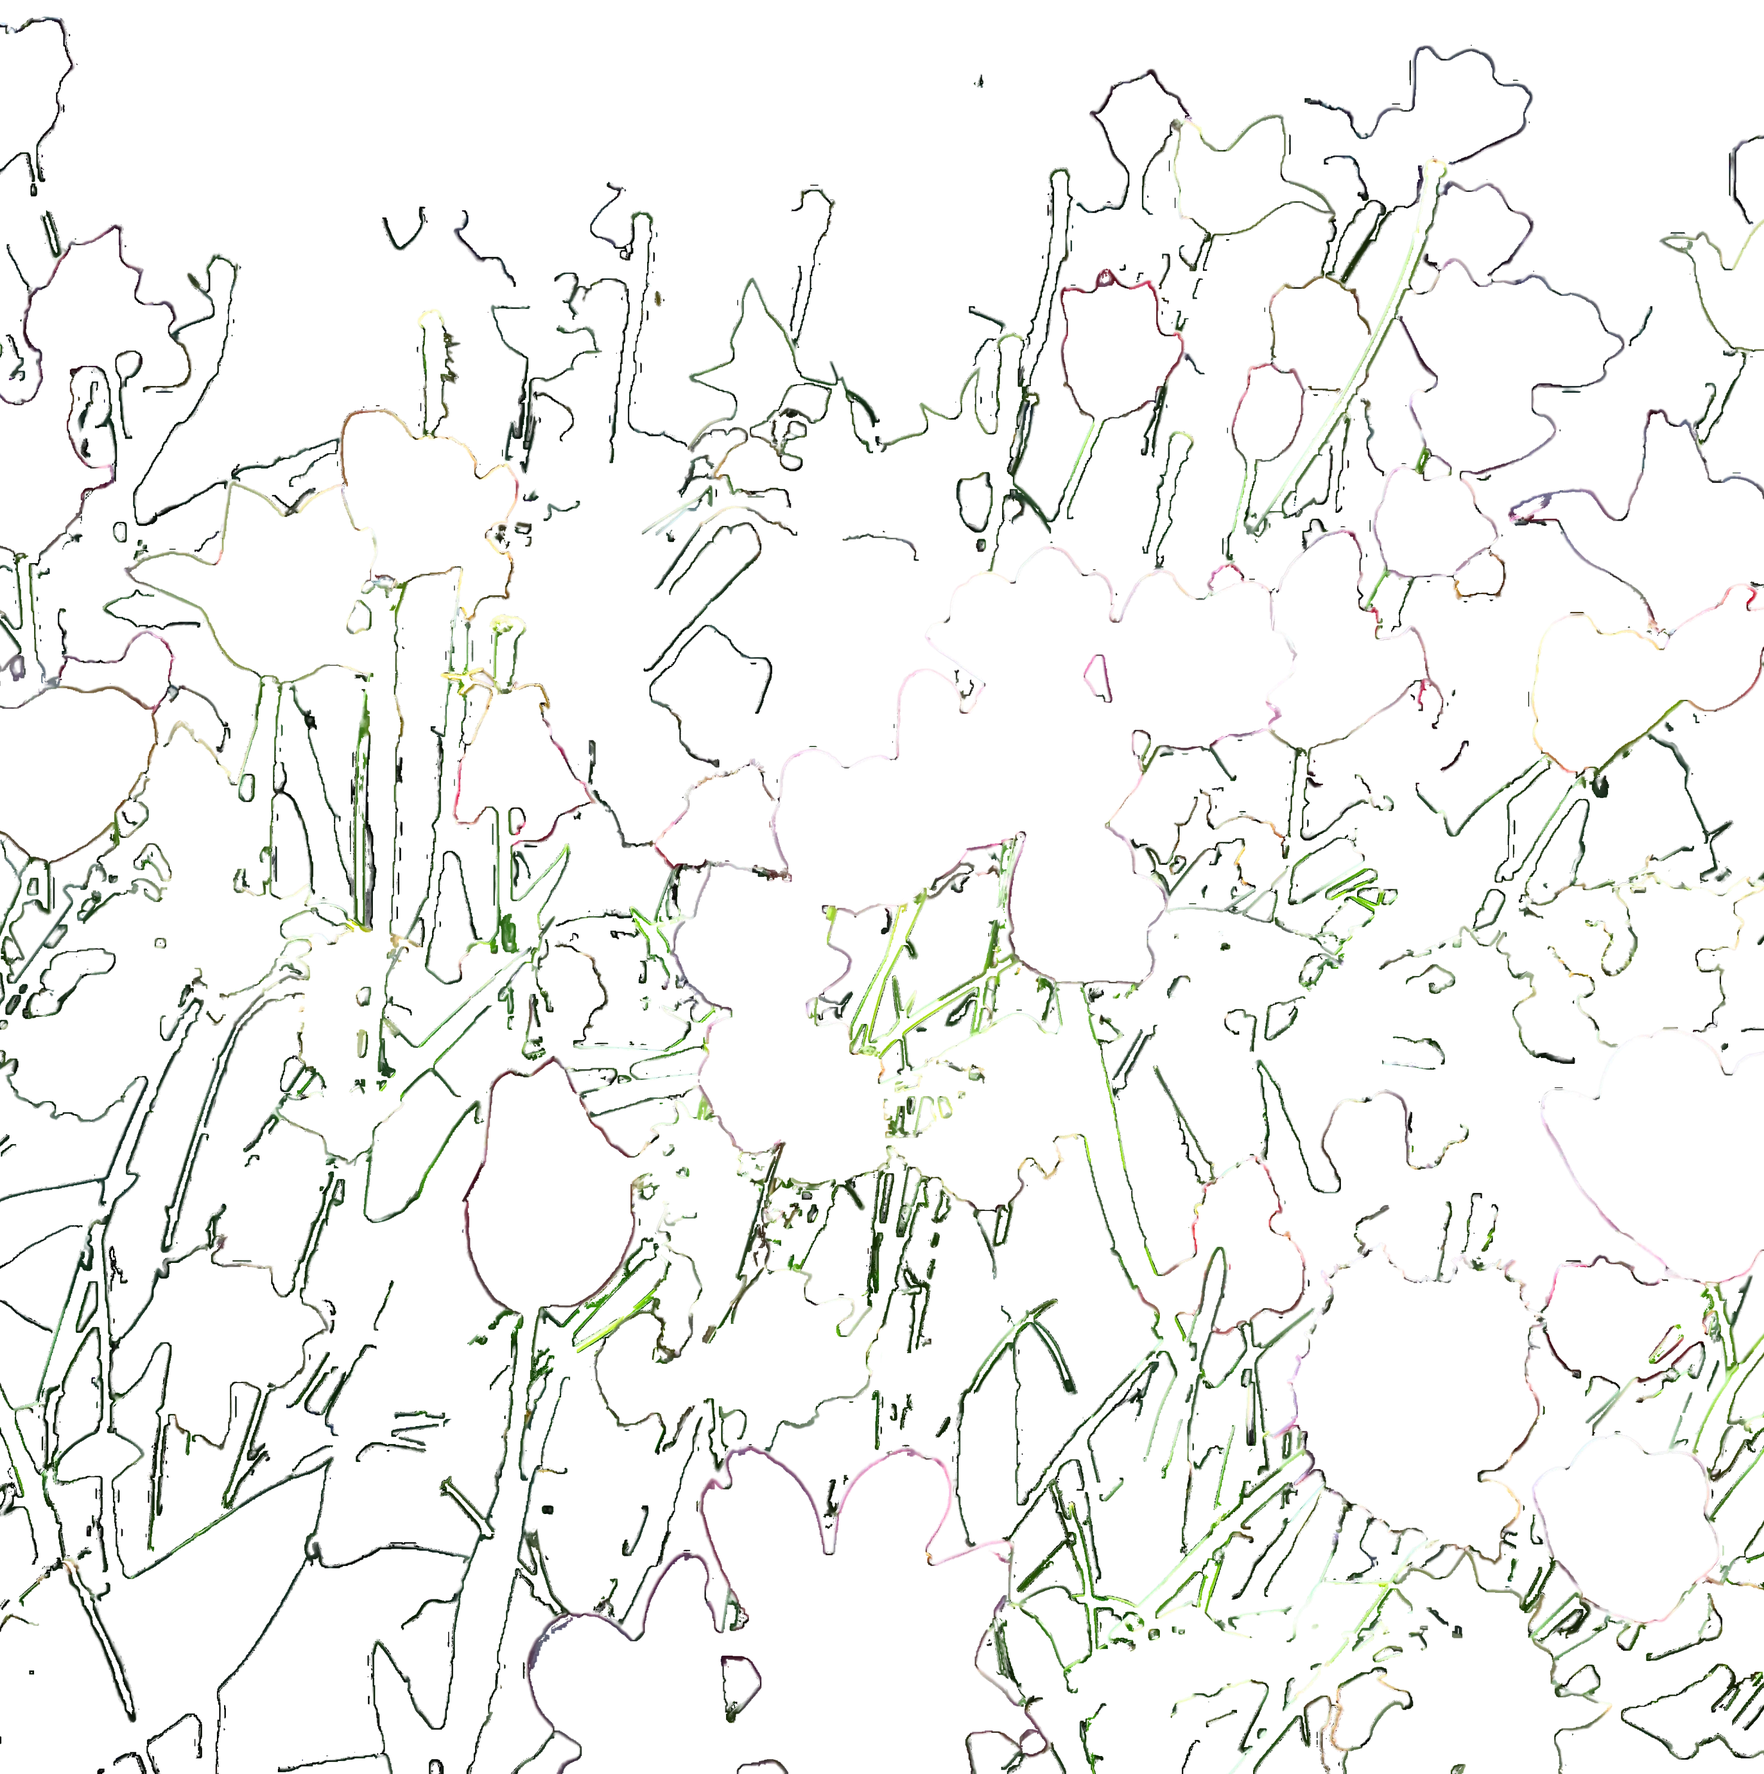
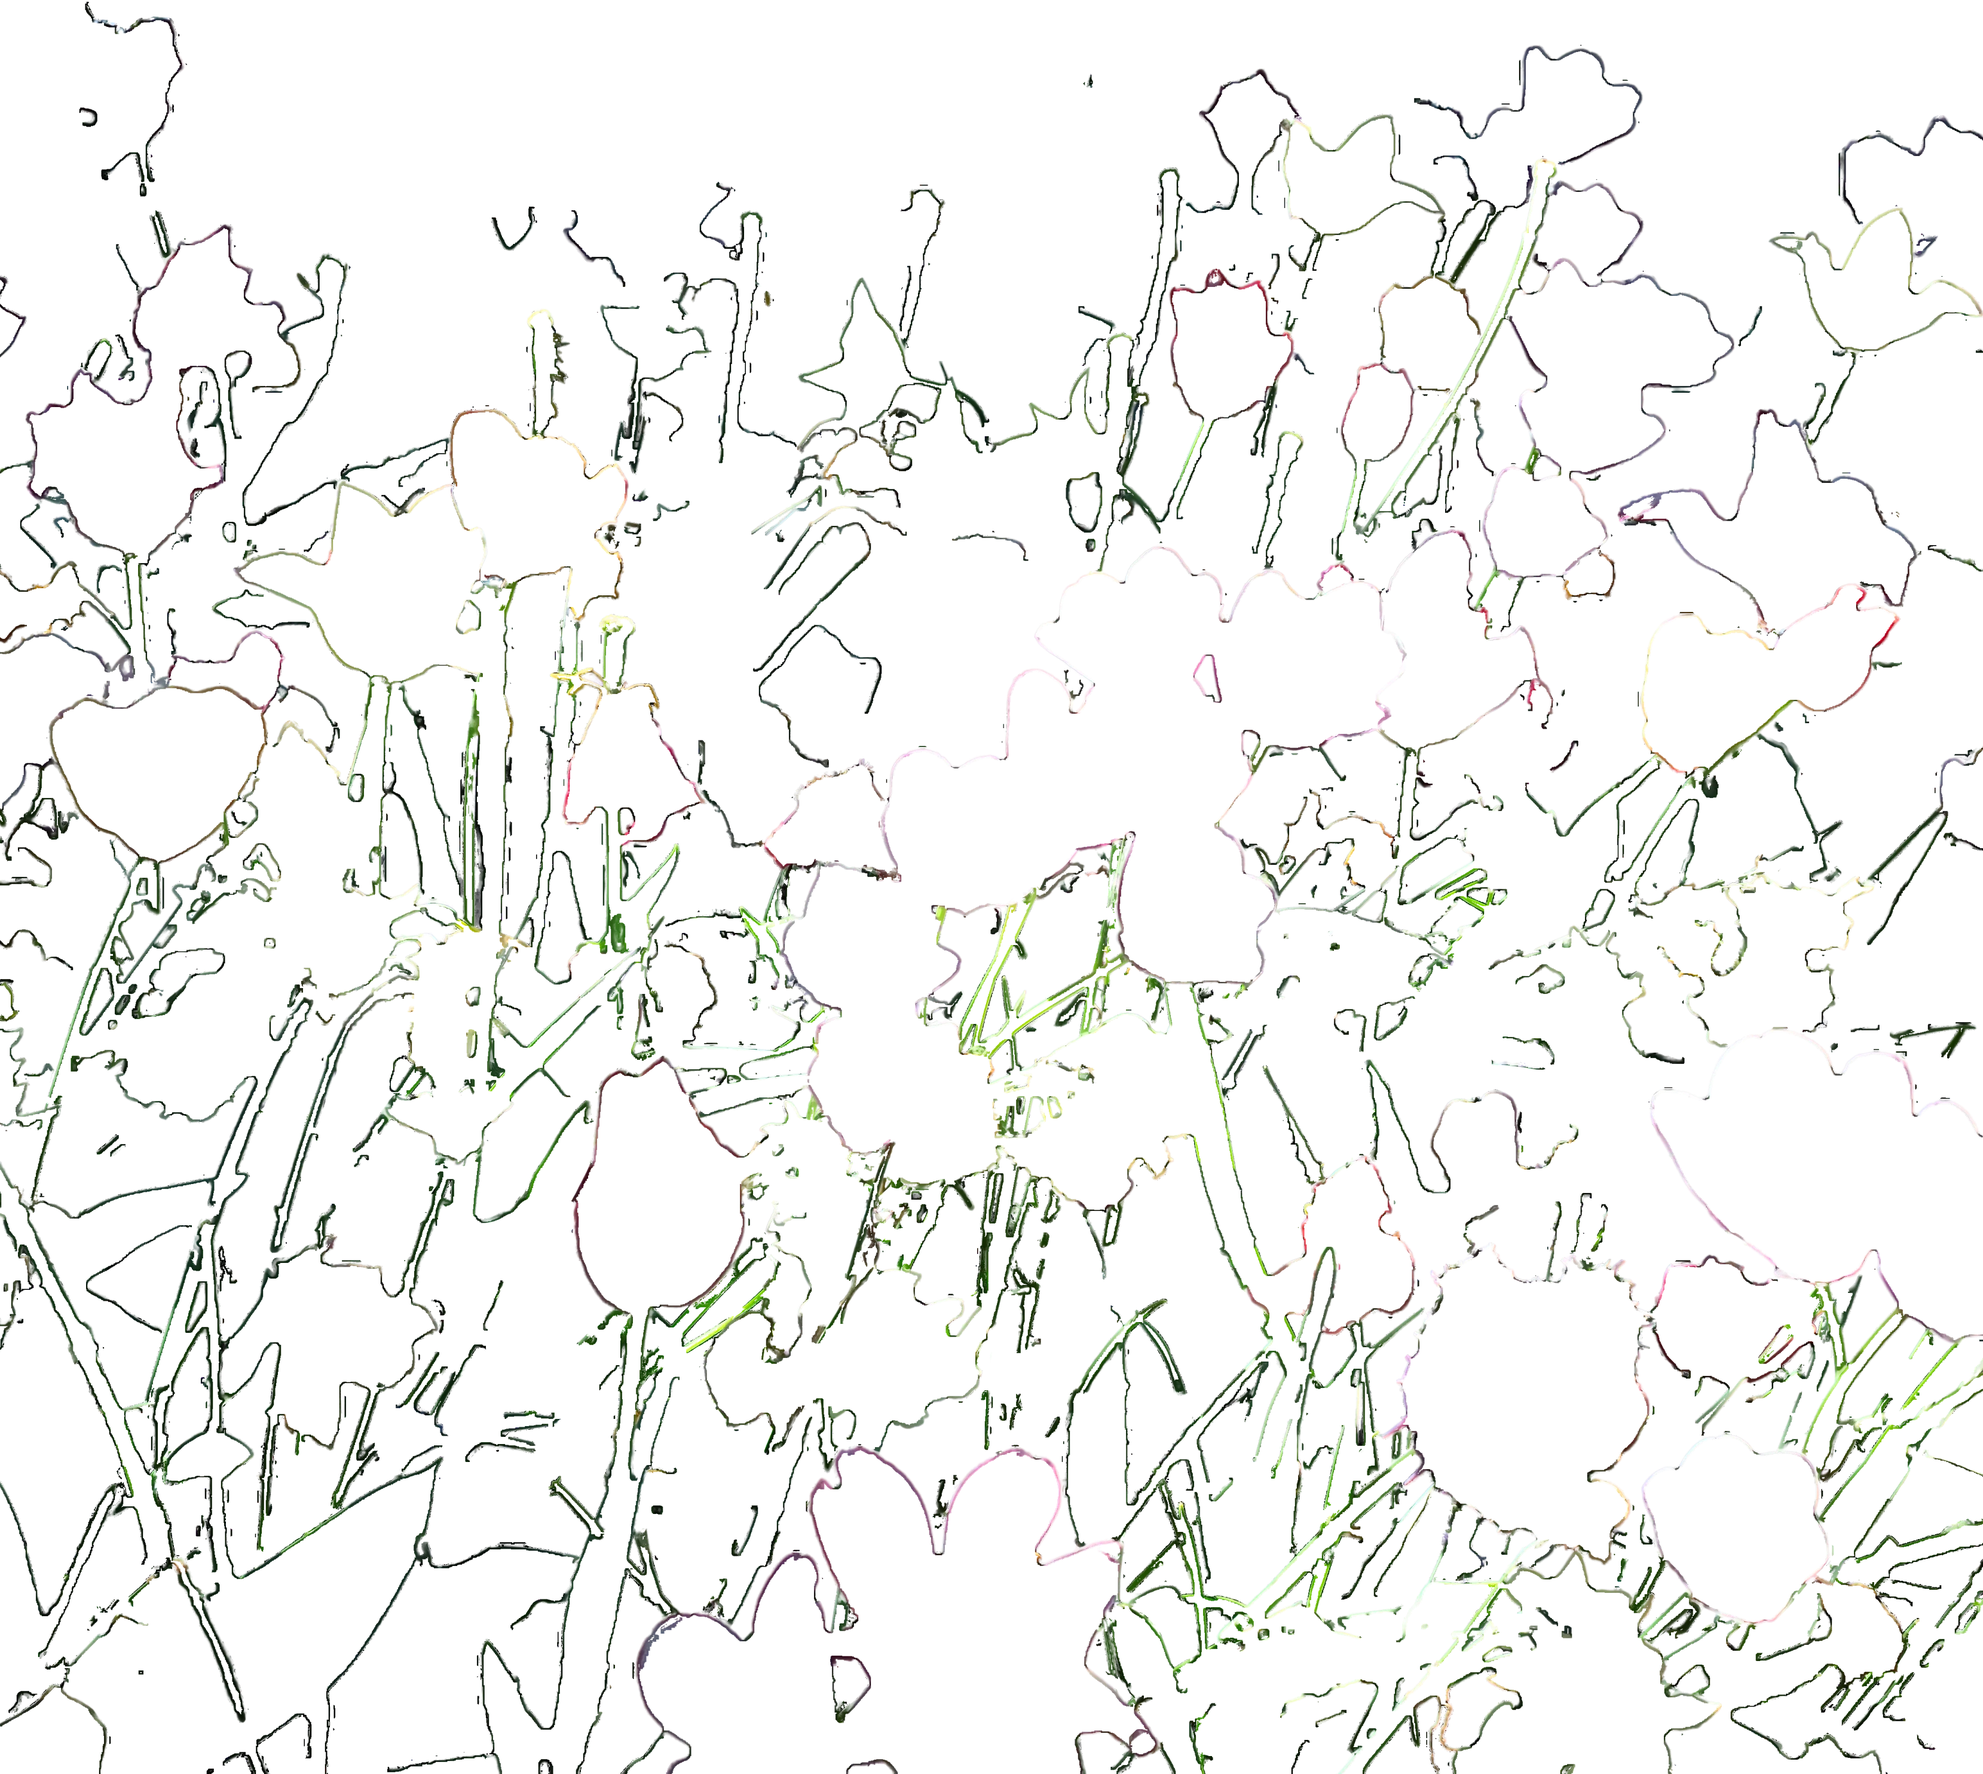
Tulips on touch: wider sideways swing, longer soft-stop drag, tilt on every touch screen (iPad)
Claude-Session: https://claude.ai/code/session_01KsQSnBLBJJT3jnq7NSZZ7L

diff --git a/src/components/MeshPreviewScene.tsx b/src/components/MeshPreviewScene.tsx
@@ -42,7 +42,10 @@ export type MeshSceneProps = {
   /** PRODUCTION, portrait screens (3:4 or narrower): the photo and soft layer as a centre crop at
    *  1.5x the small set's resolution (portrait.json, photo-portrait / fur-portrait) */
   crop?: boolean;
-  /** "tilt": the first orientation reading arrived and the view now follows the phone */
+  /** turning the device turns the view (any touch screen: phones, tablets, an iPad with a
+   *  trackpad). Implied by motion "tilt". */
+  tilt?: boolean;
+  /** tilting: the first orientation reading arrived and the view now follows the device */
   onTilt?: () => void;
   /** explore mode (touch screens): a finger dragging on an element marked
    *  [data-explore-surface] turns the view. Changing it does not reload the scene. */
@@ -331,7 +334,7 @@ function mul(a: number[], b: number[]) {
 }
 
 export default function MeshPreviewScene({ zIndex = -1, swing = 5.5, dir: prodDir, decoder, motion = "drag", small = false,
-  crop = false, dragArea, onReady, onFail, onTilt, discover = false }: MeshSceneProps) {
+  crop = false, dragArea, onReady, onFail, onTilt, discover = false, tilt = false }: MeshSceneProps) {
   const ref = useRef<HTMLCanvasElement>(null);
   const prod = !!prodDir;
   const [status, setStatus] = useState("Loading 3D Photo Inpainting preview…");
@@ -351,7 +354,9 @@ export default function MeshPreviewScene({ zIndex = -1, swing = 5.5, dir: prodDi
     /* Phones draw at their full 3x pixel density (capped at 2x they looked soft next to the
        photo). At that density multisampling adds memory and fill cost for edges nobody can see,
        so it is off there. */
-    const touch = motion !== "drag";
+    const tiltDev = tilt || motion === "tilt";               // follow the device's orientation
+    const swayDev = motion === "sway" || motion === "tilt";   // drift until something else moves it
+    const touch = motion !== "drag" || tiltDev;
     const dprCap = touch ? 3 : 2;
     const gl = canvas.getContext("webgl2", { alpha: false, antialias: !(touch && (window.devicePixelRatio || 1) > 2.5) });
     if (!gl) { fail("WebGL2 unavailable"); return; }
@@ -381,6 +386,8 @@ export default function MeshPreviewScene({ zIndex = -1, swing = 5.5, dir: prodDi
     const q = prod ? new URLSearchParams() : new URLSearchParams(window.location.search);
     /* &swing=4 tries a smaller drag range (degrees at full drag; default 5.5) */
     const sw = Math.min(10, Math.max(1, Number(q.get("swing")) || swing));
+    const SW_TOUCH_WIDE = 8;                  // degrees sideways at a full swing on narrow touch screens
+    let swX = sw;
     const v = q.get("3dp") ?? "";
     const sharp = !(v === "raw" || q.has("raw"));
     const scene = prod ? "ourssoft" : v !== "raw" && /^[a-z0-9_-]+$/.test(v) ? v : "";
@@ -429,12 +436,16 @@ export default function MeshPreviewScene({ zIndex = -1, swing = 5.5, dir: prodDi
       if (changed) { canvas.width = w; canvas.height = h; }
       gl.viewport(0, 0, w, h);
       aspect = cw / ch;
+      /* Touch screens narrower than the photo (every phone upright, tablets) see only the middle
+         of its width, so sideways there is a lot of picture to spare: a wider swing that way. Up
+         and down the photo's own frame is the limit, as on a computer. */
+      swX = touch && aspect < (meta ? meta.tanX / meta.tanY : 1.5) ? Math.max(sw, SW_TOUCH_WIDE) : sw;
       return changed;
     };
     const draw = () => {
       if (!meta) return;
       const tanY = aspect > meta.tanX / meta.tanY ? meta.tanX / aspect : meta.tanY;   // cover-fit
-      const zP = -2.2, R = 2.2, th = (cx * sw * Math.PI) / 180, ph = (-cy * sw * Math.PI) / 180;
+      const zP = -2.2, R = 2.2, th = (cx * swX * Math.PI) / 180, ph = (-cy * sw * Math.PI) / 180;
       const eye = [R * Math.sin(th) * Math.cos(ph), R * Math.sin(ph), zP + R * Math.cos(th) * Math.cos(ph)];
       const mvp = new Float32Array(mul(perspective(2 * Math.atan(tanY), aspect, 0.05, 50), lookAt(eye, [0, 0, zP], [0, 1, 0])));
       gl.uniformMatrix4fv(uMVP, false, mvp);
@@ -492,19 +503,27 @@ export default function MeshPreviewScene({ zIndex = -1, swing = 5.5, dir: prodDi
     const apply = () => {
       const tiltLive = Math.abs(tiltX) > 0.004 || Math.abs(tiltY) > 0.004;
       dragging = finger || tiltLive;
-      if (!finger) { dragX = 0; dragY = 0; }
+      if (!finger) { dragX = 0; dragY = 0; rawX = 0; rawY = 0; }
       tx = dragging ? clamp1(dragX + tiltX) : 0; ty = dragging ? clamp1(dragY + tiltY) : 0;
       if (dragging || moving || cx !== 0 || cy !== 0) kick();   // a plain click changes nothing
     };
     const root = document.documentElement;
-    let sx = 0, sy = 0, bx = 0, by = 0, prevSel = "", selLocked = false, reach = 0.35;
+    let sx = 0, sy = 0, bx = 0, by = 0, rawX = 0, rawY = 0, prevSel = "", selLocked = false, reachX = 1, reachY = 1;
+    /* past ~80% of the range a finger meets a soft stop instead of a wall: the view keeps
+       following a little further, then holds */
+    const soft = (v: number) => {
+      const a = Math.abs(v);
+      return a <= 0.8 ? v : Math.sign(v) * (0.8 + 0.2 * Math.tanh((a - 0.8) / 0.2));
+    };
     const down = (e: PointerEvent) => {
       if (finger) return;                                   // one finger turns the view
       const tgt = e.target as HTMLElement | null;
       if (discoverRef.current) {
         // explore mode: drags anywhere on its surface (not on its Done button)
         if (!tgt?.closest("[data-explore-surface]")) return;
-        reach = 0.45;
+        // a full swing over 60% of the screen's shorter side, the same both ways (a phone
+        // upright is narrow: 45% of its width ran out of range after ~175 px of finger)
+        reachX = reachY = 0.6 * Math.min(window.innerWidth, window.innerHeight);
         cancelAnimationFrame(swayRaf); swayRaf = 0;         // the finger takes over from the drift
       } else {
         // the hero: mouse and pen only. A finger there scrolls the page (dragging the picture
@@ -513,17 +532,18 @@ export default function MeshPreviewScene({ zIndex = -1, swing = 5.5, dir: prodDi
         if (e.button !== 0 && e.pointerType === "mouse") return;
         if (tgt?.closest("a, button, input, textarea, select, [role='button']")) return;
         if (dragArea && !tgt?.closest(dragArea)) return;
-        reach = 0.35;
+        reachX = 0.35 * window.innerWidth; reachY = 0.35 * window.innerHeight;
         prevSel = root.style.userSelect; root.style.userSelect = "none"; selLocked = true;
       }
       finger = true; fingerId = e.pointerId;
-      sx = e.clientX; sy = e.clientY; bx = dragX; by = dragY;
+      sx = e.clientX; sy = e.clientY; bx = rawX; by = rawY;
       apply();
     };
     const move = (e: PointerEvent) => {
       if (!finger || e.pointerId !== fingerId) return;
-      dragX = clamp1(bx + (e.clientX - sx) / (window.innerWidth * reach));
-      dragY = clamp1(by + (e.clientY - sy) / (window.innerHeight * reach));
+      rawX = bx + (e.clientX - sx) / reachX; rawY = by + (e.clientY - sy) / reachY;
+      if (discoverRef.current) { dragX = soft(rawX); dragY = soft(rawY); }   // fingers in explore mode
+      else { dragX = clamp1(rawX); dragY = clamp1(rawY); }                 // mouse: as it always was
       apply();
     };
     const up = (e?: PointerEvent) => {
@@ -549,7 +569,8 @@ export default function MeshPreviewScene({ zIndex = -1, swing = 5.5, dir: prodDi
         const m: Meta = await (await fetch(dir + name + ".json")).json();
         /* Portrait phones see only the middle ~40% of the photo's width, at the photo's full
            height, so the 3072 px set left them about 2048 photo rows for a ~2500-2800 px tall
-           screen. The portrait set is the middle 64% at 3072 rows instead (same memory). */
+           screen. The portrait set is the middle 72% at 3072 rows instead (room for the wider sideways
+           swing touch screens get, up to a 3:4 tablet). */
         type Portrait = { PW: number; PH: number; crop: number[]; furBox: number[] };
         let pt: Portrait | null = null;
         if (prod && crop) {
@@ -819,7 +840,7 @@ export default function MeshPreviewScene({ zIndex = -1, swing = 5.5, dir: prodDi
           if (!alive) return;
           if (ms > 34) { fail(`too slow here (${ms.toFixed(0)} ms a frame)`); return; }
           ready = true;
-          if (motion === "sway" || motion === "tilt") startSway();
+          if (swayDev) startSway();
           cb.current.onReady?.();
         }
         /* ?3dp&bench: window.__mpBench(mode) times the moving-camera frame on
@@ -857,7 +878,7 @@ export default function MeshPreviewScene({ zIndex = -1, swing = 5.5, dir: prodDi
         if (document.hidden || window.scrollY > window.innerHeight * 1.5 || now - lastS < 33) return;
         lastS = now;
         const t = (now - t0s) / 1000, ramp = Math.min(1, t / 4);
-        cx = ramp * 0.42 * Math.sin((t * 2 * Math.PI) / 17);
+        cx = ramp * 0.42 * (sw / swX) * Math.sin((t * 2 * Math.PI) / 17);   // same drift at any swing
         cy = ramp * 0.18 * Math.sin((t * 2 * Math.PI) / 23 + 1.1);
         settle = Math.max(0, 1 - t / 1.5);
         if (!moving) { moving = true; setSize(moveDpr); }
@@ -928,7 +949,7 @@ export default function MeshPreviewScene({ zIndex = -1, swing = 5.5, dir: prodDi
     // explore mode ended: let go of any drag, and bring the drift back if nothing else moves it
     api.current.endDrag = () => {
       if (finger) { finger = false; apply(); }
-      if (motion === "tilt" && ready && !tiltOn && !swayRaf) startSway();
+      if (swayDev && ready && !tiltOn && !swayRaf) startSway();
     };
 
     setSize(fullDpr);
@@ -937,7 +958,7 @@ export default function MeshPreviewScene({ zIndex = -1, swing = 5.5, dir: prodDi
     window.addEventListener("pointermove", move, { passive: true });
     window.addEventListener("pointerup", up, { passive: true });
     window.addEventListener("pointercancel", up, { passive: true });
-    if (motion === "tilt") window.addEventListener("deviceorientation", onOrient);
+    if (tiltDev) window.addEventListener("deviceorientation", onOrient);
     return () => {
       alive = false; cancelAnimationFrame(raf); cancelAnimationFrame(fadeRaf); cancelAnimationFrame(swayRaf);
       canvas.removeEventListener("webglcontextlost", lost);
@@ -951,7 +972,7 @@ export default function MeshPreviewScene({ zIndex = -1, swing = 5.5, dir: prodDi
       if (selLocked) root.style.userSelect = prevSel;
       gl.getExtension("WEBGL_lose_context")?.loseContext();
     };
-  }, [swing, prodDir, decoder, motion, small, crop, dragArea]);
+  }, [swing, prodDir, decoder, motion, small, crop, dragArea, tilt]);
 
   /* One-click switcher between the builds being compared. Its own fixed layer
      above the page (the scene itself sits behind everything at zIndex -1);

diff --git a/src/components/TulipsScene.tsx b/src/components/TulipsScene.tsx
@@ -12,8 +12,8 @@ import { Rotate3d, X } from "lucide-react";
  * version IS the photo, so the fade is invisible; it only shows when the view moves.
  *
  *  - mouse / pen: drag on the hero to turn the view; it eases home on release
- *  - touch screens: tilting the phone turns the view (iPhones ask permission first, from the
- *    explore button; until then the view drifts slowly). A finger on the hero scrolls the page as
+ *  - touch screens: tilting the phone or tablet turns the view (iPhones and iPads ask permission
+ *    first, from the explore button; until then the view drifts slowly). A finger on the hero scrolls the page as
  *    usual; the "Explore in 3D" button opens explore mode, where the photo fills the screen, the
  *    page can't scroll, and dragging anywhere turns the view, until Done
  *  - portrait phones get a centre crop of the photo at higher resolution (the still and the 3D
@@ -35,7 +35,7 @@ const DIR = `${BASE}tulips/`;
 /* 3:4 or narrower: every phone held upright, and tablets in portrait */
 const PORTRAIT = "(max-aspect-ratio: 3/4)";
 
-type Plan = { motion: "drag" | "tilt"; small: boolean; touch: boolean } | null;
+type Plan = { motion: "drag" | "sway"; small: boolean; touch: boolean } | null;
 type MotionPermission = { requestPermission?: () => Promise<"granted" | "denied"> };
 
 const mq = (q: string) => typeof window !== "undefined" && !!window.matchMedia?.(q).matches;
@@ -55,8 +55,10 @@ function plan3D(): Plan {
   }
   const touchOnly = mq("(pointer: coarse)") && !mq("(any-pointer: fine)");
   const devicePx = Math.max(window.screen.width, window.screen.height) * (window.devicePixelRatio || 1);
-  // any touch screen gets explore mode (an iPad with a trackpad still gets touched)
-  return { motion: touchOnly ? "tilt" : "drag", small: touchOnly || devicePx < 2600, touch: mq("(any-pointer: coarse)") };
+  /* Any touch screen gets tilt and explore mode, not just touch-ONLY ones: an iPad with a
+     keyboard/trackpad (or a paired Pencil) also reports a fine pointer, which used to leave it
+     with mouse dragging and no tilt at all. */
+  return { motion: touchOnly ? "sway" : "drag", small: touchOnly || devicePx < 2600, touch: mq("(any-pointer: coarse)") };
 }
 
 export default function TulipsScene({ zIndex = -1 }: { zIndex?: number }) {
@@ -98,7 +100,7 @@ export default function TulipsScene({ zIndex = -1 }: { zIndex?: number }) {
   const home = plan?.touch && ready && !explore ? document.getElementById("home") : null;
   const openExplore = () => {
     const DO = window.DeviceOrientationEvent as unknown as MotionPermission | undefined;
-    if (plan?.motion === "tilt" && !tilting && !asked.current && typeof DO?.requestPermission === "function") {
+    if (plan?.touch && !tilting && !asked.current && typeof DO?.requestPermission === "function") {
       asked.current = true;
       DO.requestPermission().catch(() => "denied");   // if allowed, the view starts following the phone
     }
@@ -134,6 +136,7 @@ export default function TulipsScene({ zIndex = -1 }: { zIndex?: number }) {
               dir={DIR}
               decoder={`${BASE}meshopt_decoder.mjs`}
               motion={plan.motion}
+              tilt={plan.touch}
               small={plan.small}
               crop={crop}
               dragArea="#home"
@@ -163,7 +166,7 @@ export default function TulipsScene({ zIndex = -1 }: { zIndex?: number }) {
         home,
       )}
       {explore && createPortal(
-        <ExploreLayer tilt={plan?.motion === "tilt"} onDone={() => setExplore(false)} />,
+        <ExploreLayer tilt={!!plan?.touch} onDone={() => setExplore(false)} />,
         document.body,
       )}
     </div>
